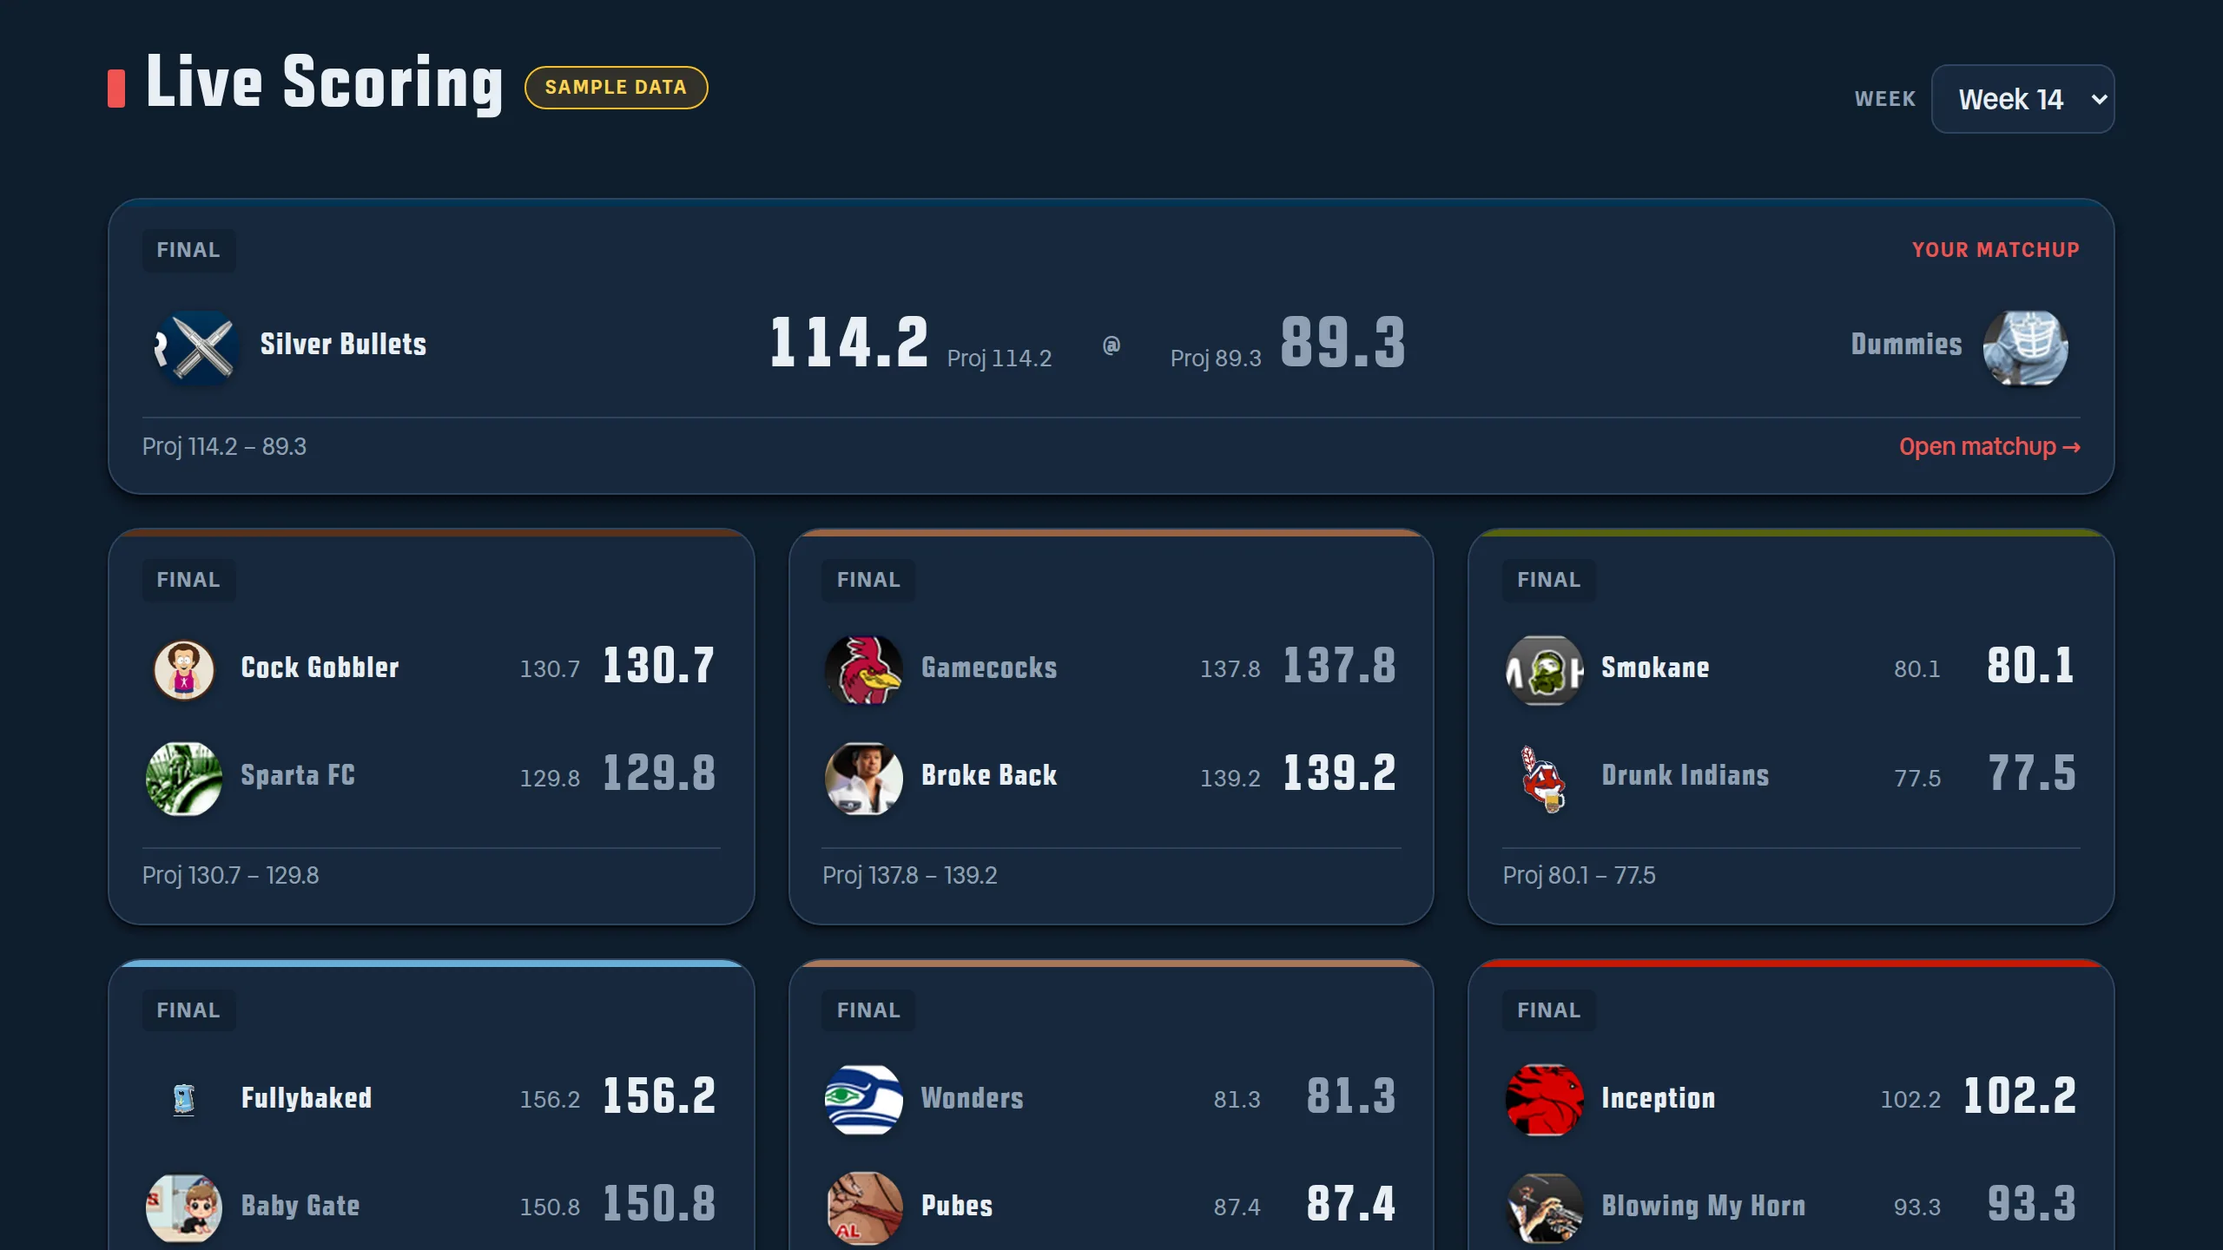
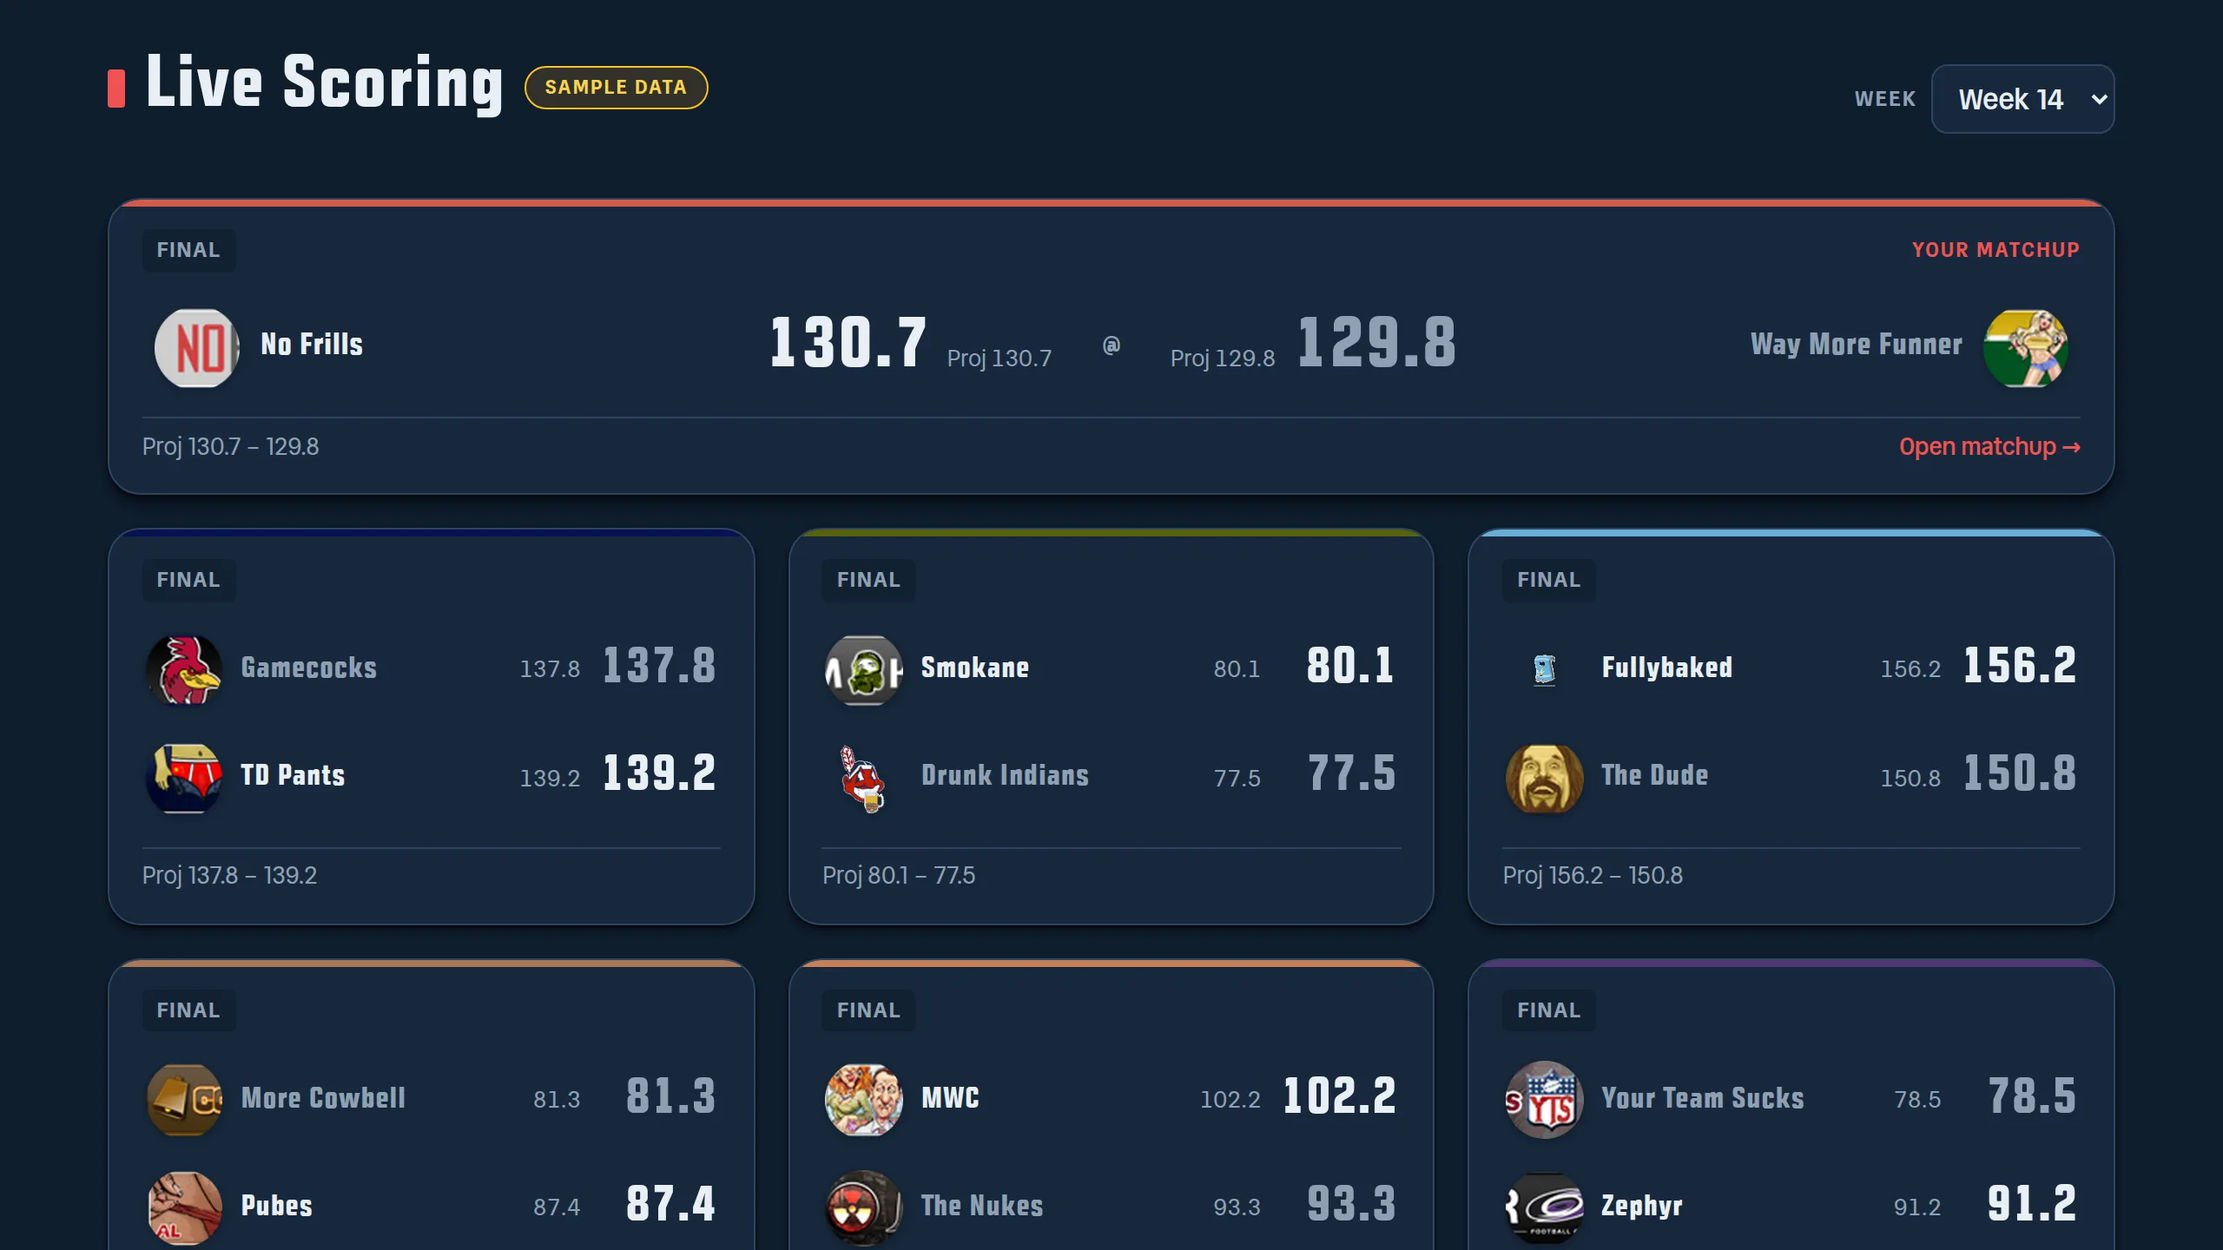
Never default a franchise into its last-place rebrand
Commissioner call: finishing last in this league gets you renamed, and the
site should not then turn around and make that shame name your Throwback
Week identity too.

The old seeding heuristic did exactly that, four times over. "Most recent
look that differs from today's" SEEKS OUT a punitive rebrand, because a
last-place rename is by construction both recent and visually distinct.
Get off my Ditka defaulted to "Can't get over the baby gate", Avenging
Amish to "Broke Back 'lil Half Dead's Brother", Jewpacabra to "Jesus
Killers", The Show to "Cock Gobbler" — every one a single season.

The replacement rule is tenure: default to the LONGEST-RUNNING eligible
era, ties to the earlier one. It asks a better question than recency. The
identity a franchise wore for seventeen seasons is the one the league
actually remembers, so The Show now wears No Frills (2005-2021, 17
seasons) instead of a name it carried for one.

Encoded in `pickDefaultThrowbackEra`, not just re-seeded into the map, for
two reasons. A seeded default that IS a rebrand is skipped, so the policy
cannot be defeated by a stale entry. And the settings page now delegates
to the same function instead of keeping its own copy of the chain — the
picker's "your default" chip is a promise about what Week 8 renders, and
a second implementation is how that promise quietly stops being true.

Rebrand eras stay SELECTABLE. The rule governs what the site chooses for
[…]

diff --git a/src/data/afl-fantasy/throwback-config.ts b/src/data/afl-fantasy/throwback-config.ts
@@ -57,44 +57,54 @@ export const AFL_THROWBACK_ASSET_CONFLICTS: { franchiseId: string; yearStart: nu
 
 /**
  * Commissioner-picked starting default per franchise (`franchiseId` -> history
- * entry `yearStart`). Seeded with TheLeague's rule — each team's MOST RECENT
- * era whose icon differs from today's — so teams throw back to their last old
- * look rather than everyone snapping to 2003. Owners self-serve an override
- * at /afl-fantasy/throwback-settings; hand-edit any of these.
+ * entry `yearStart`).
  *
- * Two franchises are here at all only because their art was recovered from
- * MFL's own `fflnetdynamic` hosting in September 2026 — 0002 and 0010 never
- * changed their NAME, so their `history[]` was empty and they were the only
- * AFL teams that could not throw back.
+ * Seeded with the LONGEST-RUNNING eligible era, never a punitive last-place
+ * rebrand (commissioner call, September 2026). The rule and the reasoning live
+ * in `pickDefaultThrowbackEra` — this map only records what that rule produced,
+ * so an entry here can be hand-edited to overrule it for any franchise except
+ * onto a rebrand, which the resolver skips on purpose.
+ *
+ * It replaced a "most recent look that differs from today's" heuristic that
+ * had picked four shame names outright — a last-place rename is by
+ * construction both recent and visually distinct, so that heuristic sought
+ * them out. Tenure asks a better question: the identity a franchise wore for
+ * seventeen seasons is the one the league remembers.
+ *
+ * Owners self-serve an override at /afl-fantasy/throwback-settings, and a
+ * rebrand era stays selectable there — wearing it is a choice an owner may
+ * make, just not one the site makes for them.
+ *
+ * Franchises 0002 and 0010 are here at all only because their art was
+ * recovered from MFL's own `fflnetdynamic` hosting in September 2026; they
+ * never changed their NAME, so their `history[]` was empty and they were the
+ * only AFL teams that could not throw back.
  */
 export const AFL_DEFAULT_THROWBACK_ERA: Record<string, number> = {
-  '0001': 2003, // Smokane FC → Smokane (only prior era)
-  '0002': 2003, // Drunk Indians → the original Wahoo mark; never renamed, so the BANNER is the tell
-  '0003': 2011, // Team Minty Fresh → Level 3 Inception
-  '0004': 2024, // Get off my Ditka → Can't get over the baby gate
-  '0005': 2010, // Computer Jocks → booyakasha
-  '0006': 2011, // Da Dangsters → Whitman's Wonders
-  '0007': 2023, // Avenging Amish → Broke Back 'lil Half Dead's Brother
-  '0008': 2016, // Dicks out for Harambe → Blowing My Horn
-  '0009': 2003, // Vitside Mafia → Gamecocks (only prior era)
-  '0010': 2005, // Fullybaked → the red-graffiti lockup (2003 Half Baked poster is the alt)
-  '0011': 2009, // Midwestside Connection → The Dark Side
-  '0012': 2009, // Suh girls, one cup → Pubes
-  '0013': 2010, // Muck Juggling Micks → Delirium Tremens
-  '0014': 2007, // A Bruin Pegs Me → Thundering Herd
-  '0015': 2011, // The Mariachi Ninjas → Gaelic Rams
-  '0016': 2022, // Swiftie 4 Life → Silver Bullets. NOT the seed's 2023 pick: that era is
-                //   "Swifty 4 Life", a one-letter spelling variant of the current name, so
-                //   it reads as a typo rather than a throwback. Silver Bullets is the most
-                //   recent era that is actually a different identity.
-  '0017': 2008, // Titsburgh Feelers → Blitzkrieg
-  '0018': 2019, // Jewpacabra → Jesus Killers
-  '0019': 2011, // Badd Boys → Cliffside Killer Clowns
-  '0020': 2006, // The Boondock Saints → Limp Ditkas
-  '0021': 2009, // Chatmaster → Tackling Dummies
-  '0022': 2012, // Balls Deep → Sparta FC
-  '0023': 2025, // The Show → Cock Gobbler
-  '0024': 2016, // No Soup For You → BronxBommr
+  '0001': 2003, // Smokane FC → Smokane — 6 seasons
+  '0002': 2003, // Drunk Indians → Drunk Indians (The original Wahoo) — 14 seasons
+  '0003': 2003, // Team Minty Fresh → Marriedwithchildren — 8 seasons
+  '0004': 2012, // Get off my Ditka → The Dude that Abides — 5 seasons
+  '0005': 2010, // Computer Jocks → booyakasha — 5 seasons
+  '0006': 2008, // Da Dangsters → More Cowbell — 3 seasons
+  '0007': 2010, // Avenging Amish → Touchdown My Pants — 4 seasons
+  '0008': 2003, // Dicks out for Harambe → The Nukes — 13 seasons
+  '0009': 2003, // Vitside Mafia → Gamecocks — 7 seasons
+  '0010': 2005, // Fullybaked → Fullybaked (Red graffiti) — 12 seasons
+  '0011': 2005, // Midwestside Connection → The Rookies — 4 seasons
+  '0012': 2009, // Suh girls, one cup → Pubes — 10 seasons
+  '0013': 2010, // Muck Juggling Micks → Delirium Tremens — 10 seasons
+  '0014': 2007, // A Bruin Pegs Me → Thundering Herd — 19 seasons
+  '0015': 2003, // The Mariachi Ninjas → The Blunt Bros. — 8 seasons
+  '0016': 2009, // Swiftie 4 Life → Brady's Bastards — 5 seasons
+  '0017': 2008, // Titsburgh Feelers → Blitzkrieg — 5 seasons
+  '0018': 2009, // Jewpacabra → Zephyr — 5 seasons
+  '0019': 2005, // Badd Boys → The Bandwagon — 4 seasons
+  '0020': 2003, // The Boondock Saints → Your Team Sucks — 3 seasons
+  '0021': 2009, // Chatmaster → Tackling Dummies — 1 season
+  '0022': 2005, // Balls Deep → Way More Funner — 7 seasons
+  '0023': 2005, // The Show → No Frills — 17 seasons
+  '0024': 2008, // No Soup For You → The Street — 4 seasons
 };
 
 export const isAflThrowbackWeek: (week: number) => boolean = isWeek;

diff --git a/tests/afl-throwback-identity.test.ts b/tests/afl-throwback-identity.test.ts
@@ -3,7 +3,11 @@ import { existsSync } from 'node:fs';
 import { join } from 'node:path';
 import aflConfig from '../data/afl-fantasy/afl.config.json';
 import theleagueConfig from '../src/data/theleague.config.json';
-import { getEligibleThrowbackEras, resolveThrowbackIdentity } from '../src/utils/throwback-identity';
+import {
+  getEligibleThrowbackEras,
+  pickDefaultThrowbackEra,
+  resolveThrowbackIdentity,
+} from '../src/utils/throwback-identity';
 import { applyThrowbackOverrides, type ConfigTeam } from '../src/utils/live-scoring-data';
 import {
   scopedThrowbackKey,
@@ -206,5 +210,85 @@ describe('AFL throwback — live-scoring overlay', () => {
     // 1999 is nobody's era — falls back down the default chain rather than
     // rendering an undefined identity.
     expect(resolveThrowbackIdentity(swiftie, 1999, 'afl').isHistorical).toBe(true);
+  });
+});
+
+describe('throwback defaults — never a punitive last-place rebrand', () => {
+  const span = (e: { yearStart: number; yearEnd?: number }) =>
+    (e.yearEnd ?? e.yearStart) - e.yearStart + 1;
+
+  it('no franchise is DEFAULTED into a shame name', () => {
+    // The rule this pins is a league policy, not a heuristic: an owner may
+    // choose to wear the name the league stuck them with for finishing last,
+    // but the site never chooses it for them. The seeding heuristic that
+    // preceded it picked four of these outright, because a last-place rename
+    // is by construction both recent and visually distinct.
+    for (const team of teams) {
+      const identity = resolveThrowbackIdentity(team, undefined, 'afl');
+      expect(
+        identity.rebrand,
+        `${team.name} is defaulted into its last-place rebrand "${identity.name}"`,
+      ).toBeUndefined();
+    }
+  });
+
+  it('defaults to the longest-running eligible era', () => {
+    // Compared by ENTRY, not by name: two of Fullybaked's eras are both called
+    // "Fullybaked" and differ only by eraLabel, so a name lookup here silently
+    // grades the wrong one.
+    for (const team of teams) {
+      const eligible = getEligibleThrowbackEras(team, 'afl');
+      const clean = eligible.filter((e) => !e.rebrand);
+      if (clean.length === 0) continue;
+      const longest = Math.max(...clean.map(span));
+      const worn = pickDefaultThrowbackEra(
+        eligible,
+        throwbackRules('afl').defaults[team.franchiseId],
+      )!;
+      expect(
+        span(worn),
+        `${team.name} defaults to "${worn.name}" (${worn.yearStart}, ${span(worn)}yr) ` +
+          `but its longest non-rebrand era runs ${longest}yr`,
+      ).toBe(longest);
+    }
+  });
+
+  it('The Show wears No Frills (17 seasons), not Cock Gobbler (1)', () => {
+    // The case that prompted the rule.
+    const identity = resolveThrowbackIdentity(findTeam('0023'), undefined, 'afl');
+    expect(identity.name).toBe('No Frills');
+  });
+
+  it('an owner may still CHOOSE a rebrand era', () => {
+    const show = findTeam('0023');
+    const shame = getEligibleThrowbackEras(show, 'afl').find((e) => e.rebrand)!;
+    expect(shame.name).toBe('Cock Gobbler');
+    expect(resolveThrowbackIdentity(show, shame.yearStart, 'afl').name).toBe('Cock Gobbler');
+  });
+
+  it('a seeded default that is a rebrand is overruled, not honored', () => {
+    // Rule 1 must not be defeatable by a stale entry in the seed map.
+    const eligible = [
+      { name: 'Shame', yearStart: 2020, yearEnd: 2020, rebrand: { reason: 'last-place', group: 'g' } },
+      { name: 'Real', yearStart: 2010, yearEnd: 2012 },
+    ] as any;
+    expect(pickDefaultThrowbackEra(eligible, 2020)!.name).toBe('Real');
+  });
+
+  it('falls back to a rebrand only when every era is one', () => {
+    const allShame = [
+      { name: 'Shame A', yearStart: 2020, yearEnd: 2020, rebrand: { reason: 'last-place', group: 'g' } },
+      { name: 'Shame B', yearStart: 2015, yearEnd: 2018, rebrand: { reason: 'last-place', group: 'g' } },
+    ] as any;
+    // Dropping out of Throwback Week entirely would be worse than the shame name.
+    expect(pickDefaultThrowbackEra(allShame)!.name).toBe('Shame B');
+  });
+
+  it('breaks a tenure tie on the earlier era, deterministically', () => {
+    const tied = [
+      { name: 'Later', yearStart: 2015, yearEnd: 2017 },
+      { name: 'Earlier', yearStart: 2005, yearEnd: 2007 },
+    ] as any;
+    expect(pickDefaultThrowbackEra(tied)!.name).toBe('Earlier');
   });
 });

diff --git a/src/utils/throwback-identity.ts b/src/utils/throwback-identity.ts
@@ -74,15 +74,63 @@ function toIdentity(entry: FranchiseHistoryEntry): TeamIdentity {
 }
 
 /**
- * Resolve a franchise's throwback identity: owner override -> commissioner
- * default -> earliest eligible era -> current identity (if no eligible eras
- * exist at all).
+ * How long a franchise wore an era, in seasons.
  *
- * Note on the fallback: the "each team throws back to its most recent old
- * identity" policy is implemented by the SEEDED `DEFAULT_THROWBACK_ERA` map
- * (hand-tuned per franchise, with commissioner exceptions), not here. The
- * earliest-eligible-era branch below is a last resort that only fires when a
- * franchise has eligible eras but no (or an invalid) seeded default.
+ * `yearEnd` is inclusive, so a single-season era spans 1 rather than 0 — the
+ * difference between "shortest" and "tied for shortest" when this orders the
+ * default pick below.
+ */
+function eraSpan(entry: FranchiseHistoryEntry): number {
+  return (entry.yearEnd ?? entry.yearStart) - entry.yearStart + 1;
+}
+
+/**
+ * The era a franchise wears when its owner has not picked one.
+ *
+ * Two rules, and the first one is a league policy rather than a heuristic:
+ *
+ * 1. **A punitive last-place rebrand is never a DEFAULT.** Wearing the name
+ *    the league stuck you with for finishing last is a choice an owner can
+ *    make, not one the site makes for them — so `rebrand` eras stay
+ *    selectable in the picker and are skipped here. This is not a nicety:
+ *    the seeding heuristic that preceded it ("most recent look that differs
+ *    from today's") walked straight into four of them, because a shame
+ *    rename is by construction recent and visually distinct.
+ * 2. **Otherwise the LONGEST-RUNNING era wins**, ties going to the earlier
+ *    one. The identity a franchise wore for seventeen seasons is the one the
+ *    league actually remembers; the seeded map is the commissioner's chance
+ *    to overrule that, not a separate policy.
+ *
+ * A commissioner default that is itself a rebrand is skipped too, so rule 1
+ * cannot be defeated by a stale seed. The all-rebrand case still returns
+ * something — a franchise whose every era is a shame name has no better
+ * option, and rendering its CURRENT identity would silently drop it out of
+ * Throwback Week entirely.
+ */
+export function pickDefaultThrowbackEra(
+  eligible: FranchiseHistoryEntry[],
+  seededYearStart?: number
+): FranchiseHistoryEntry | null {
+  if (eligible.length === 0) return null;
+
+  const seeded = eligible.find((e) => e.yearStart === seededYearStart);
+  if (seeded && !seeded.rebrand) return seeded;
+
+  const byTenure = (pool: FranchiseHistoryEntry[]) =>
+    [...pool].sort((a, b) => eraSpan(b) - eraSpan(a) || a.yearStart - b.yearStart)[0];
+
+  const clean = eligible.filter((e) => !e.rebrand);
+  return byTenure(clean.length > 0 ? clean : eligible) ?? null;
+}
+
+/**
+ * Resolve a franchise's throwback identity: owner override -> the default era
+ * (`pickDefaultThrowbackEra`) -> current identity, when there is no eligible
+ * era at all.
+ *
+ * An owner override is honored even when it is a punitive rebrand — the
+ * no-shame-name rule governs what we CHOOSE for someone, not what they may
+ * choose for themselves.
  *
  * @param ownerOverrideYearStart - `yearStart` of the era the owner picked
  *   via the league's throwback-settings page, if any.
@@ -101,16 +149,11 @@ export function resolveThrowbackIdentity(
     if (chosen) return toIdentity(chosen);
   }
 
-  const defaultYearStart = throwbackRules(scope).defaults[team.franchiseId];
-  if (defaultYearStart !== undefined) {
-    const chosen = eligible.find((e) => e.yearStart === defaultYearStart);
-    if (chosen) return toIdentity(chosen);
-  }
-
-  if (eligible.length > 0) {
-    const earliest = [...eligible].sort((a, b) => a.yearStart - b.yearStart)[0];
-    return toIdentity(earliest);
-  }
+  const chosen = pickDefaultThrowbackEra(
+    eligible,
+    throwbackRules(scope).defaults[team.franchiseId]
+  );
+  if (chosen) return toIdentity(chosen);
 
   return {
     name: team.name,

diff --git a/src/utils/throwback-settings-view.ts b/src/utils/throwback-settings-view.ts
@@ -16,7 +16,7 @@
 
 import type { AuthUser } from './auth';
 import { isCommissionerOrAdmin } from './auth';
-import { getEligibleThrowbackEras } from './throwback-identity';
+import { getEligibleThrowbackEras, pickDefaultThrowbackEra } from './throwback-identity';
 import { getAllThrowbackPreferences, getThrowbackPreference, getRedis } from './throwback-store';
 import { throwbackRules, type ThrowbackScope } from './throwback-scope';
 import type { FranchiseHistoryEntry, TeamConfig } from './team-names';
@@ -74,24 +74,21 @@ function toEraView(era: FranchiseHistoryEntry): ThrowbackEraView {
 }
 
 /**
- * The default-era chain, shared so the picker, the commissioner panel and the
- * scoreboard can never disagree about what a team wears: the seeded
- * commissioner default when it is still eligible, else the earliest eligible
- * era. (A stored pick that is no longer eligible lands here too — exactly what
- * `resolveThrowbackIdentity` does, so the page shows what will actually
- * render.)
+ * The default era, delegated to `pickDefaultThrowbackEra` rather than
+ * reimplemented.
+ *
+ * This page and the scoreboard must never disagree about what a team wears
+ * with no pick saved — the picker's "your default" chip is a promise about
+ * what Week 8 will actually render. A second copy of the rule here is exactly
+ * how that promise would quietly stop being true, and the rule now carries
+ * policy (no punitive rebrand as a default), not just an ordering.
  */
 function defaultEraFor(
   eligible: FranchiseHistoryEntry[],
   franchiseId: string,
   scope: ThrowbackScope
 ): FranchiseHistoryEntry | null {
-  const seeded = throwbackRules(scope).defaults[franchiseId];
-  return (
-    eligible.find((e) => e.yearStart === seeded) ??
-    [...eligible].sort((a, b) => a.yearStart - b.yearStart)[0] ??
-    null
-  );
+  return pickDefaultThrowbackEra(eligible, throwbackRules(scope).defaults[franchiseId]);
 }
 
 /**
